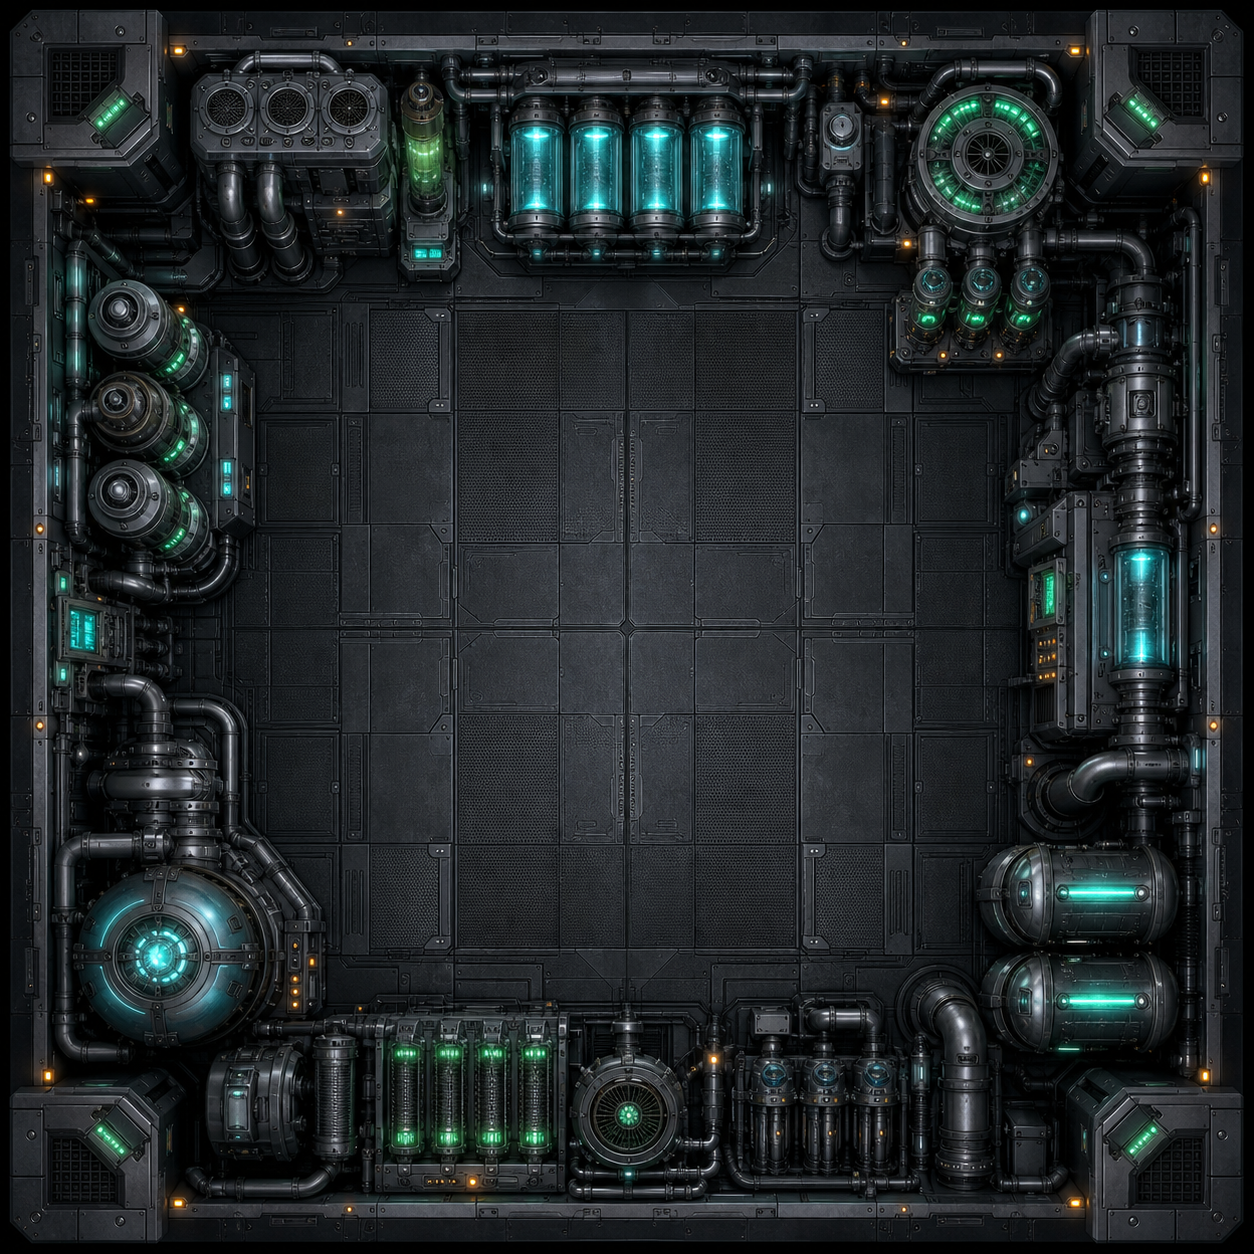
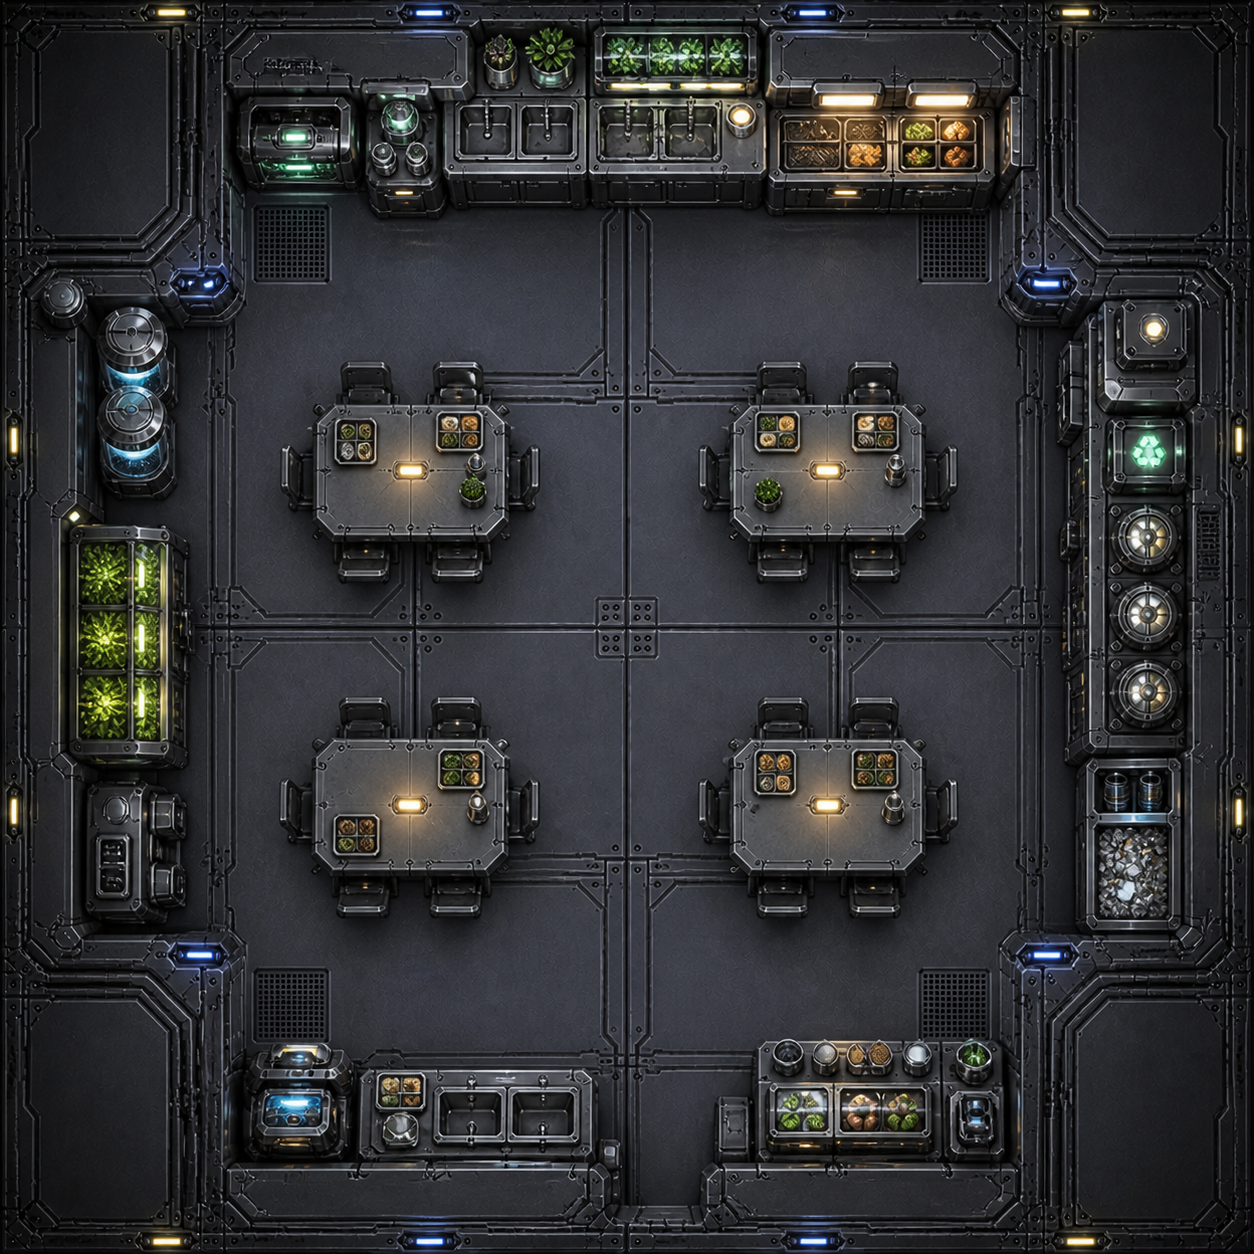
Expand starship engine catalog and mobile layouts

diff --git a/starship.html b/starship.html
@@ -5,7 +5,7 @@
     <meta name="viewport" content="width=device-width, initial-scale=1.0" />
     <title>Spaceship Architect Starship Creator</title>
     <link rel="icon" href="data:," />
-    <link rel="stylesheet" href="starship.css?v=20260825-ships2" />
+    <link rel="stylesheet" href="starship.css?v=20260828-mobile-systems-engines" />
   </head>
   <body>
     <header class="starship-header">
@@ -159,13 +159,25 @@
           </svg>
         </article>
         <section class="mobile-compact-systems" aria-label="Detection and digital security">
-          <article class="mobile-blueprint detection-mobile"><svg viewBox="8 105 110 103" aria-label="Detection"><image href="ship-sheet-template.svg?v=20260824-shipyard4" width="612" height="792" /></svg></article>
-          <article class="mobile-blueprint security-mobile"><svg viewBox="115 105 82 59" aria-label="Digital Security"><image href="ship-sheet-template.svg?v=20260824-shipyard4" width="612" height="792" /></svg></article>
-          <article class="mobile-blueprint break-lock-mobile"><svg viewBox="115 154 82 55" aria-label="Break Lock-On"><image href="ship-sheet-template.svg?v=20260824-shipyard4" width="612" height="792" /></svg></article>
+          <article class="mobile-system-card detection-mobile">
+            <strong>Detection</strong>
+            <dl><div><dt>Sensor Range</dt><dd>0</dd></div><div><dt>Sensor Dice</dt><dd>0D0</dd></div><div><dt>Lock-On Dice</dt><dd>0D0</dd></div></dl>
+          </article>
+          <article class="mobile-system-card security-mobile">
+            <strong>Digital Security</strong>
+            <dl><div><dt>Firewall Level</dt><dd>0</dd></div></dl>
+          </article>
+          <article class="mobile-system-card break-lock-mobile">
+            <strong>Break Lock-On</strong>
+            <output>0D0</output>
+          </article>
         </section>
-        <article class="mobile-blueprint power-mobile">
-          <h2>Power</h2>
-          <svg viewBox="380 158 214 50" aria-label="Power"><image href="ship-sheet-template.svg?v=20260824-shipyard4" width="612" height="792" /><g class="mobile-live-stats"><text data-live-stat="en" data-en-part="available" x="446" y="185">0</text><text data-live-stat="en" data-en-part="max" x="478" y="185">0</text></g></svg>
+        <article class="mobile-system-card power-mobile">
+          <strong>Power</strong>
+          <dl>
+            <div class="mobile-power-en"><dt>EN</dt><dd><span data-live-stat="en" data-en-part="available">0</span><i aria-hidden="true">/</i><span data-live-stat="en" data-en-part="max">0</span></dd></div>
+            <div class="mobile-power-au"><dt>AU</dt><dd>0</dd></div>
+          </dl>
         </article>
         <article class="mobile-blueprint fuel-mobile">
           <h2>FTL Fuel</h2>
@@ -279,7 +291,7 @@
 
       <section class="starship-panel sic-market" data-starship-panel="sics" hidden>
         <header class="sic-market-header">
-          <div><span>Series A Systems</span><h2>Ship Integrated Components</h2></div>
+          <div><span>Series A &amp; B Systems</span><h2>Ship Integrated Components</h2></div>
           <strong>Group Credits <span data-group-credits>999,999</span></strong>
         </header>
         <div class="sic-card-gallery">
@@ -299,6 +311,38 @@
             <footer><span><small>If Impaired</small>Becomes unstable</span><span><small>Damage Threshold</small>17</span></footer>
           </article>
           <button class="sic-purchase-button" data-purchase-sic="en-engine-2" type="button">Purchase EN Engine 2 - 4,550</button></section>
+          <section class="sic-market-item"><article class="sic-poker-card en-engine-card" data-sic-card="en-engine-3" tabindex="0" aria-label="EN Engine 3 details">
+            <header class="sic-poker-heading"><span>Engine <small>A-9</small></span><div><h3>EN Engine 3</h3><strong>Price: 10,150</strong></div></header>
+            <img class="sic-poker-art" src="en-engine-3-graphic.png" alt="EN Engine 3" />
+            <dl class="sic-poker-stats"><div><dt>Energy Cost</dt><dd>0</dd></div><div><dt>Security Level</dt><dd>4</dd></div><div><dt>Size</dt><dd>3×3</dd></div><div><dt>Skill</dt><dd>Engineering</dd></div><div><dt>Crafting</dt><dd>Necronium, 1 day</dd></div></dl>
+            <section class="sic-poker-rules"><p>Basic Engine that produces a large amount of EN.</p><p>Minimum distance away from another Engine is 3 squares.</p><strong>Outputs 29 EN</strong><p>Stations 2<br />Passive Station Bonus: Each Character grants additional EN for each level of Engineering they have.</p></section>
+            <footer><span><small>If Impaired</small>Becomes unstable</span><span><small>Damage Threshold</small>25</span></footer>
+          </article>
+          <button class="sic-purchase-button" data-purchase-sic="en-engine-3" type="button">Purchase EN Engine 3 - 10,150</button></section>
+          <section class="sic-market-item"><article class="sic-poker-card en-engine-card" data-sic-card="en-engine-4" tabindex="0" aria-label="EN Engine 4 details">
+            <header class="sic-poker-heading"><span>Engine <small>A-10</small></span><div><h3>EN Engine 4</h3><strong>Price: 17,500</strong></div></header>
+            <img class="sic-poker-art" src="en-engine-4-graphic.png" alt="EN Engine 4" />
+            <dl class="sic-poker-stats"><div><dt>Energy Cost</dt><dd>0</dd></div><div><dt>Security Level</dt><dd>4</dd></div><div><dt>Size</dt><dd>4×4</dd></div><div><dt>Skill</dt><dd>Engineering</dd></div><div><dt>Crafting</dt><dd>Endernium, 2 days</dd></div></dl>
+            <section class="sic-poker-rules"><p>Basic Engine that produces a large amount of EN.</p><p>Minimum distance away from another Engine is 4 squares.</p><strong>Outputs 50 EN</strong><p>Stations 3<br />Passive Station Bonus: Each Character grants additional EN for each level of Engineering they have.</p></section>
+            <footer><span><small>If Impaired</small>Becomes unstable</span><span><small>Damage Threshold</small>33</span></footer>
+          </article>
+          <button class="sic-purchase-button" data-purchase-sic="en-engine-4" type="button">Purchase EN Engine 4 - 17,500</button></section>
+          <section class="sic-market-item"><article class="sic-poker-card en-engine-card" data-sic-card="en-engine-5" tabindex="0" aria-label="EN Engine 5 details">
+            <header class="sic-poker-heading"><span>Engine <small>B-5</small></span><div><h3>EN Engine 5</h3><strong>Price: 26,950</strong></div></header>
+            <img class="sic-poker-art" src="en-engine-5-graphic.png" alt="EN Engine 5" />
+            <dl class="sic-poker-stats"><div><dt>Energy Cost</dt><dd>0</dd></div><div><dt>Security Level</dt><dd>5</dd></div><div><dt>Size</dt><dd>5×5</dd></div><div><dt>Skill</dt><dd>Engineering</dd></div><div><dt>Crafting</dt><dd>Dark Phazon, 3 days</dd></div></dl>
+            <section class="sic-poker-rules"><p>Powerful Engine for large starships.</p><p>Minimum distance away from another Engine is 5 squares.</p><strong>Outputs 77 EN</strong><p>Stations 3<br />Passive Station Bonus: Each Character grants additional EN for each level of Engineering they have.</p></section>
+            <footer><span><small>If Impaired</small>Becomes unstable</span><span><small>Damage Threshold</small>43</span></footer>
+          </article>
+          <button class="sic-purchase-button" data-purchase-sic="en-engine-5" type="button">Purchase EN Engine 5 - 26,950</button></section>
+          <section class="sic-market-item"><article class="sic-poker-card en-engine-card" data-sic-card="en-engine-6" tabindex="0" aria-label="EN Engine 6 details">
+            <header class="sic-poker-heading"><span>Engine <small>B-6</small></span><div><h3>EN Engine 6</h3><strong>Price: 38,500</strong></div></header>
+            <img class="sic-poker-art" src="en-engine-6-graphic.png" alt="EN Engine 6" />
+            <dl class="sic-poker-stats"><div><dt>Energy Cost</dt><dd>0</dd></div><div><dt>Security Level</dt><dd>5</dd></div><div><dt>Size</dt><dd>6×6</dd></div><div><dt>Skill</dt><dd>Engineering</dd></div><div><dt>Crafting</dt><dd>Carmot, 3 days</dd></div></dl>
+            <section class="sic-poker-rules"><p>Massive Engine for capital-scale energy needs.</p><p>Minimum distance away from another Engine is 6 squares.</p><strong>Outputs 110 EN</strong><p>Stations 4<br />Passive Station Bonus: Each Character grants additional EN for each level of Engineering they have.</p></section>
+            <footer><span><small>If Impaired</small>Becomes unstable</span><span><small>Damage Threshold</small>53</span></footer>
+          </article>
+          <button class="sic-purchase-button" data-purchase-sic="en-engine-6" type="button">Purchase EN Engine 6 - 38,500</button></section>
           <section class="sic-market-item"><article class="sic-poker-card life-support-card" data-sic-card="life-support" tabindex="0" aria-label="Life Support details">
             <header class="sic-poker-heading"><span>Utility <small>A-29</small></span><div><h3>Life Support</h3><strong>Price: 1,500</strong></div></header>
             <img class="sic-poker-art" src="life-support-graphic.png" alt="Life Support system" />
@@ -311,6 +355,6 @@
       </section>
     </main>
     <dialog id="sicCardDialog" class="sic-card-dialog" aria-label="SIC card details"><button type="button" data-close-sic-card aria-label="Close card">×</button><div data-sic-card-dialog-body></div></dialog>
-    <script src="starship.js?v=20260826-explore-polish"></script>
+    <script src="starship.js?v=20260828-mobile-systems-engines"></script>
   </body>
 </html>

diff --git a/starship.css b/starship.css
@@ -142,3 +142,53 @@ button,input{font:inherit}input{width:100%;min-width:0;border:0;border-bottom:1p
   .mobile-live-stats text[data-live-stat="hsm"]{fill:#080b0f!important;stroke:transparent!important}
 }
 @media(max-width:470px){.mobile-compact-systems{grid-template-columns:1.3fr 1fr 1fr;gap:3px}.mobile-compact-systems svg{min-height:112px}}
+
+/* Mobile systems use native panels so their contents remain legible at every viewport. */
+.mobile-system-card{display:none}
+.sic-poker-card[data-sic-card^="en-engine-"] .sic-poker-heading>span{background:#ffd800}
+@media(max-width:820px){
+  .mobile-compact-systems{grid-template-columns:minmax(0,1.45fr) minmax(0,1fr) minmax(0,1fr);gap:6px}
+  .mobile-system-card{display:flex;min-width:0;min-height:116px;flex-direction:column;border:1px solid #40546a;background:linear-gradient(180deg,#0c1824,#050c13);color:#edf6ff;overflow:hidden}
+  .mobile-system-card>strong{display:flex;min-height:34px;align-items:center;justify-content:center;padding:6px;background:#102537;border-bottom:1px solid #40546a;color:#73e7ff;font-size:clamp(.56rem,2.35vw,.78rem);line-height:1;text-align:center;text-transform:uppercase}
+  .mobile-system-card dl{display:grid;flex:1;margin:0}
+  .mobile-system-card dl>div{display:grid;grid-template-columns:minmax(0,1.35fr) minmax(40px,.65fr);align-items:center;border-bottom:1px solid #263d50}
+  .mobile-system-card dl>div:last-child{border-bottom:0}
+  .mobile-system-card dt,.mobile-system-card dd{margin:0;padding:6px 4px;text-align:center}
+  .mobile-system-card dt{color:#a9bbca;font-size:clamp(.46rem,1.9vw,.66rem);line-height:1.05}
+  .mobile-system-card dd,.mobile-system-card>output{color:#fff;font:900 clamp(.72rem,3.2vw,1.05rem)/1 Arial,sans-serif}
+  .mobile-system-card>output{display:grid;flex:1;place-items:center}
+  .security-mobile>strong{color:#ff8c96}.break-lock-mobile>strong{color:#ff7ca1}
+  .power-mobile{min-height:100px}
+  .power-mobile dl{grid-template-columns:1fr 1fr}
+  .power-mobile dl>div{grid-template-columns:minmax(54px,.7fr) minmax(76px,1fr);border-bottom:0}
+  .power-mobile dl>div+div{border-left:1px solid #40546a}
+  .power-mobile dt{font:900 clamp(1.05rem,7vw,2rem)/1 Arial,sans-serif;color:#081009;background:#3a9f49;clip-path:polygon(0 10%,100% 0,100% 100%,0 90%)}
+  .power-mobile .mobile-power-au dt{background:#c9b500;color:#151300}
+  .power-mobile dd{display:flex;align-items:center;justify-content:space-evenly;gap:5px}
+  .power-mobile dd i{display:block;width:2px;height:48px;background:#d8e1e8;transform:rotate(38deg);font-size:0}
+  .mobile-grid-viewport,.mobile-grid,.mobile-grid .ship-grid-cell{touch-action:pan-y}
+  .mobile-grid-viewport{overscroll-behavior:contain auto}
+  .mobile-grid.explore-mode{touch-action:pan-y!important}
+  .ship-grid.high-resolution,.ship-grid.high-resolution .ship-grid-cell:not(.is-selected){background-color:transparent!important}
+  .sic-wall{z-index:10!important;background:#f5f7f8!important;box-shadow:0 0 0 1px #000,inset 0 0 0 1px #000,0 0 3px rgba(255,255,255,.85)!important}
+  .sic-door{z-index:9!important;overflow:hidden!important;touch-action:manipulation}
+  .sic-door:not(:disabled){cursor:pointer}
+  .door-panel{background:#77838e!important;border-color:#050709!important;box-shadow:inset 0 0 0 1px #aab5be}
+  .sic-door-top,.sic-door-bottom{left:17%;width:66%;height:30%}.sic-door-top{top:-10%}.sic-door-bottom{bottom:-10%}
+  .sic-door-left,.sic-door-right{top:17%;width:30%;height:66%}.sic-door-left{left:-10%}.sic-door-right{right:-10%}
+  .sic-door-top .door-panel,.sic-door-bottom .door-panel{top:34%;height:32%}
+  .sic-door-left .door-panel,.sic-door-right .door-panel{left:34%;width:32%}
+}
+@media(max-width:470px){
+  .mobile-compact-systems{grid-template-columns:minmax(0,1.35fr) minmax(0,1fr) minmax(0,1fr);gap:4px}
+  .mobile-system-card{min-height:104px}
+  .mobile-system-card dt,.mobile-system-card dd{padding:5px 2px}
+}
+
+/* Door leaves slide into a masked track beneath the surrounding wall. */
+.sic-wall{z-index:10}
+.sic-door{z-index:9;overflow:hidden}
+.sic-door-top.is-open .door-panel-first,.sic-door-bottom.is-open .door-panel-first{transform:translateX(-118%)}
+.sic-door-top.is-open .door-panel-second,.sic-door-bottom.is-open .door-panel-second{transform:translateX(118%)}
+.sic-door-left.is-open .door-panel-first,.sic-door-right.is-open .door-panel-first{transform:translateY(-118%)}
+.sic-door-left.is-open .door-panel-second,.sic-door-right.is-open .door-panel-second{transform:translateY(118%)}

diff --git a/starship.js b/starship.js
@@ -8,6 +8,10 @@ const GRID_SIZE = 20;
 const SIC_CATALOG = {
   "en-engine-1": { name: "EN Engine 1", shortLabel: "EN 1", category: "engine", price: 1750, width: 1, height: 1, enOutput: 5, energyCost: 0, clearance: 1, floorplan: "en-engine-1-floor-plan.png" },
   "en-engine-2": { name: "EN Engine 2", shortLabel: "EN 2", category: "engine", price: 4550, width: 2, height: 2, enOutput: 13, energyCost: 0, clearance: 2, floorplan: "en-engine-2-floor-plan.png" },
+  "en-engine-3": { name: "EN Engine 3", shortLabel: "EN 3", category: "engine", price: 10150, width: 3, height: 3, enOutput: 29, energyCost: 0, clearance: 3, floorplan: "en-engine-3-floor-plan.png" },
+  "en-engine-4": { name: "EN Engine 4", shortLabel: "EN 4", category: "engine", price: 17500, width: 4, height: 4, enOutput: 50, energyCost: 0, clearance: 4, floorplan: "en-engine-4-floor-plan.png" },
+  "en-engine-5": { name: "EN Engine 5", shortLabel: "EN 5", category: "engine", price: 26950, width: 5, height: 5, enOutput: 77, energyCost: 0, clearance: 5, floorplan: "en-engine-5-floor-plan.png" },
+  "en-engine-6": { name: "EN Engine 6", shortLabel: "EN 6", category: "engine", price: 38500, width: 6, height: 6, enOutput: 110, energyCost: 0, clearance: 6, floorplan: "en-engine-6-floor-plan.png" },
   "life-support": { name: "Life Support", shortLabel: "LIFE", category: "utility", price: 1500, width: 2, height: 2, enOutput: 0, energyCost: 2, clearance: 0, floorplan: "life-support-floor-plan.png" },
 };
 

diff --git a/ship-combat-map.js b/ship-combat-map.js
@@ -16,6 +16,10 @@
   const SIC = {
     "en-engine-1": { width: 1, height: 1, label: "EN 1", image: "en-engine-1-floor-plan.png" },
     "en-engine-2": { width: 2, height: 2, label: "EN 2", image: "en-engine-2-floor-plan.png" },
+    "en-engine-3": { width: 3, height: 3, label: "EN 3", image: "en-engine-3-floor-plan.png" },
+    "en-engine-4": { width: 4, height: 4, label: "EN 4", image: "en-engine-4-floor-plan.png" },
+    "en-engine-5": { width: 5, height: 5, label: "EN 5", image: "en-engine-5-floor-plan.png" },
+    "en-engine-6": { width: 6, height: 6, label: "EN 6", image: "en-engine-6-floor-plan.png" },
     "life-support": { width: 2, height: 2, label: "LIFE", image: "life-support-floor-plan.png" },
   };
   let combatState = null;

diff --git a/index.html b/index.html
@@ -581,7 +581,7 @@
 
   <script src="combat-rules.js?v=20260821-melee-export-pass"></script>
   <script src="app.js?v=20260826-explore-polish"></script>
-  <script src="ship-combat-map.js?v=20260826-explore-polish"></script>
+  <script src="ship-combat-map.js?v=20260828-mobile-systems-engines"></script>
   <script src="combat-actions.js?v=20260818-qol-pass"></script>
   <script type="module" src="npc-combat-dice.js?v=20260816-storage-give"></script>
   </body>
